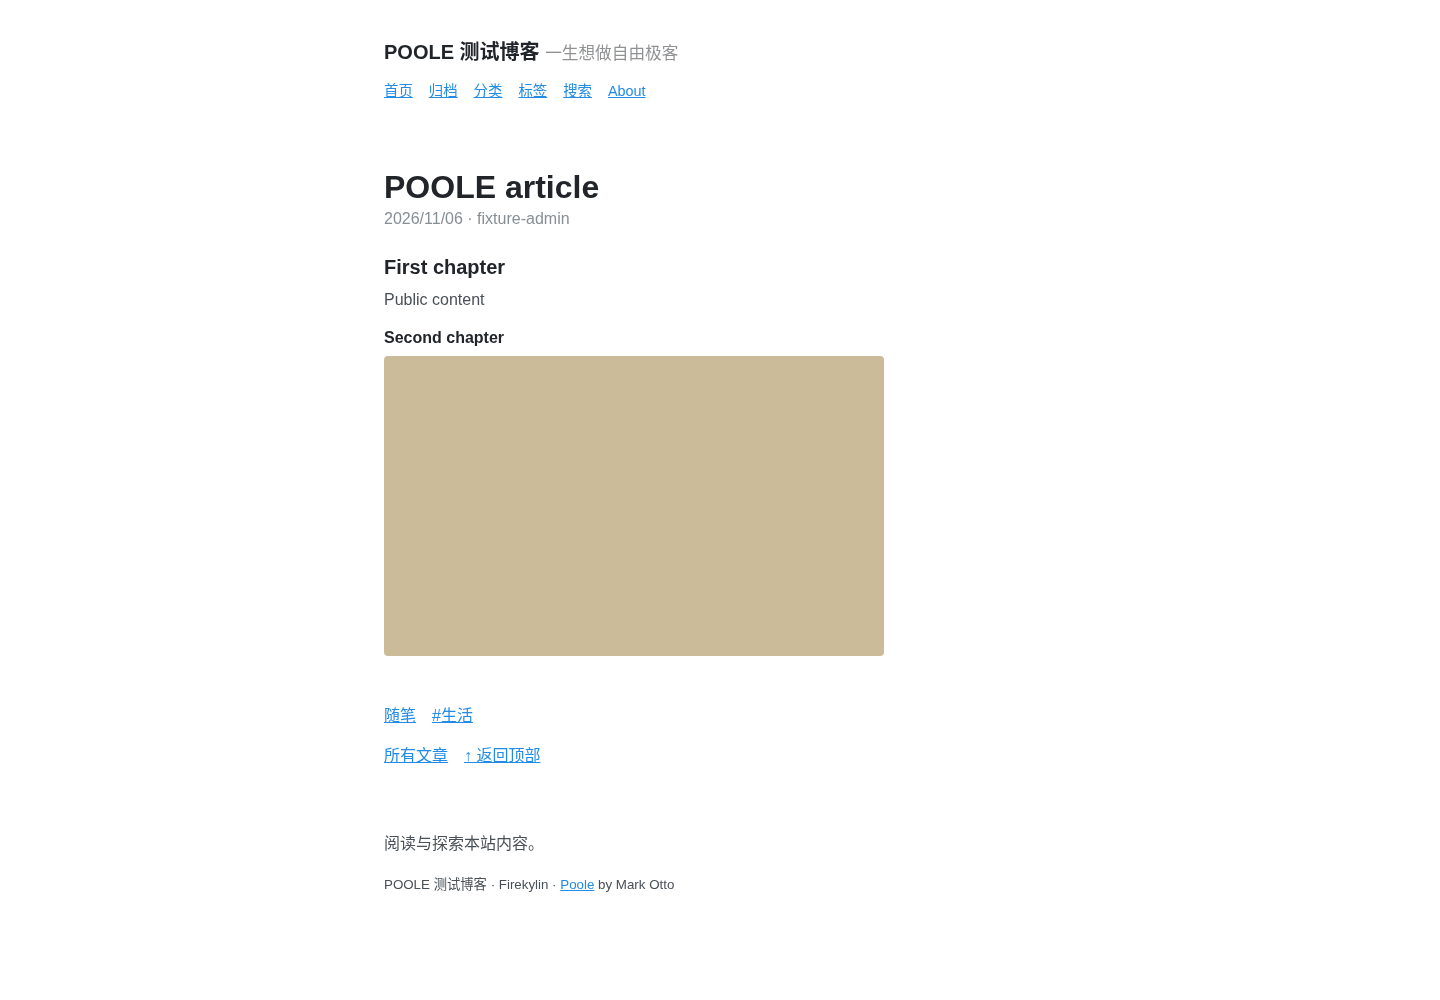
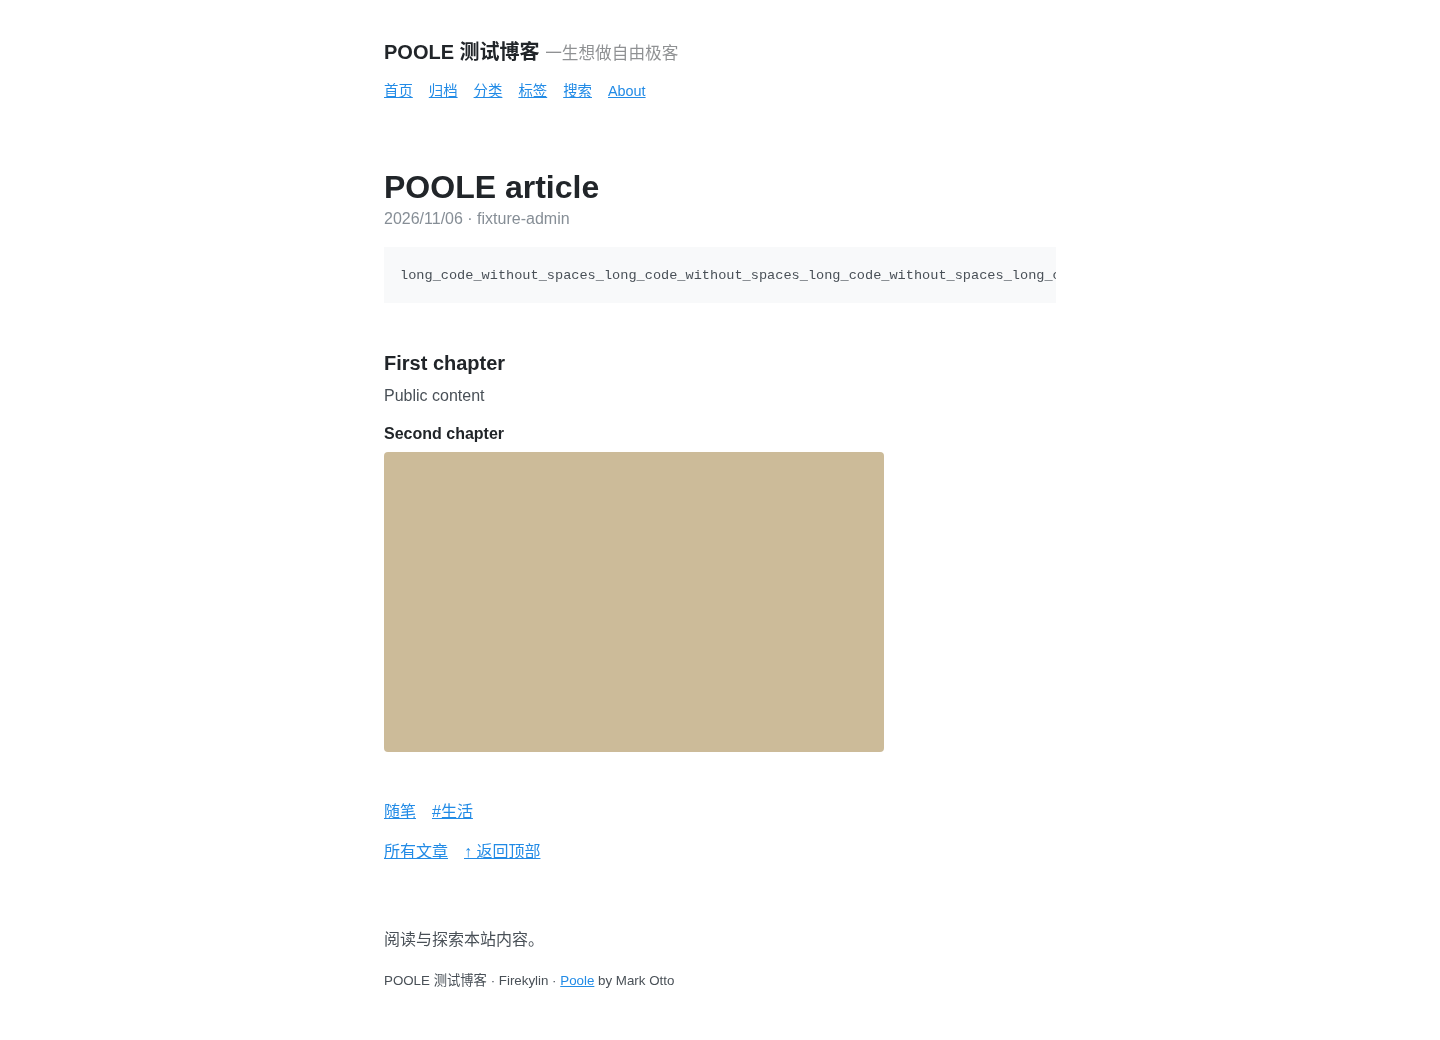
fix: render native attachment media and contain long code

Changed region(s): [[0.25, 0.155, 0.7188, 0.434], [0.25, 0.651, 0.625, 0.961], [0.25, 0.031, 0.4688, 0.093]]

diff --git a/test/poole.test.js b/test/poole.test.js
@@ -4,3 +4,5 @@ const {render,pages}=require('./port-fixture');
 for(const page of pages)test('Poole '+page+' renders populated and empty Widgets',async()=>{for(const empty of [false,true]){const html=await render('poole',page,{empty});assert.match(html,/Poole/);assert(!html.includes('undefined'));}});
 test('Poole escapes titles, rejects active cover URLs, preserves protected body',async()=>{const html=await render('poole','index',{hostile:true,config:{profileName:'<script>alert(1)</script>',backgroundImage:'javascript:alert(1)'}});assert(!html.includes('<img src=x onerror'));assert.match(html,/&lt;img/);assert(!html.includes('src="javascript:'));assert.match(await render('poole','post',{protected:true}),/protectPassword/);});
 test('Poole delegates comments and keeps search filters in pagination',async()=>{assert(!(await render('poole','post',{comments:false})).includes('id="comments"'));const html=await render('poole','search',{request:'/search.html?keyword=a%26b'});assert.match(html,/keyword=a%26b&amp;page=2/);});
+
+test('poole renders attachment media and rejects active file URLs',async()=>{const {context}=require('./port-fixture');const {Eta}=require('eta');const path=require('node:path');for(const [mime,element] of [['image/png','img'],['audio/mpeg','audio'],['video/mp4','video'],['application/pdf',null]]){const ctx=context('poole','attachment');const archive=await ctx.widget('Widget_Archive');archive.stack[0].options={attachment:{mime,url:'/uploads/file',name:'Download file'}};const html=await new Eta({views:path.join(__dirname,'../packages/poole'),varName:'firekylin'}).renderAsync('attachment',ctx);assert.match(html,/href="\/uploads\/file" download/);if(element)assert(html.includes('<'+element+' '));}const ctx=context('poole','attachment');(await ctx.widget('Widget_Archive')).stack[0].options={attachment:{mime:'image/png',url:'javascript:alert(1)'}};const html=await new Eta({views:path.join(__dirname,'../packages/poole'),varName:'firekylin'}).renderAsync('attachment',ctx);assert(!html.includes('javascript:'));});

diff --git a/packages/poole/res/css/theme.css b/packages/poole/res/css/theme.css
@@ -620,3 +620,6 @@ a.pagination-item:hover {
 }
 /* Native Firekylin integration */
 body{overflow-wrap:anywhere}img{height:auto}iframe,video{max-width:100%}.nav-items{display:flex;flex-wrap:wrap;gap:.5rem 1rem;margin-top:1rem;font-size:.9rem}.skip{position:absolute;top:-100px}.skip:focus{top:0}.prose table{display:block;overflow:auto}.post-actions,.tags{display:flex;gap:1rem;flex-wrap:wrap;margin:1rem 0}.pagination{margin:3rem 0}.pagination-item{flex:1;min-width:0}input,button{font:inherit;max-width:100%;box-sizing:border-box}.prose pre{padding:1rem;background:var(--code-bg)}:focus-visible{outline:2px solid var(--link-color);outline-offset:3px}
+
+/* Native code and attachment containment. */
+.prose pre{max-width:100%;overflow-x:auto}.attachment-media img,.attachment-media audio,.attachment-media video{max-width:100%}
